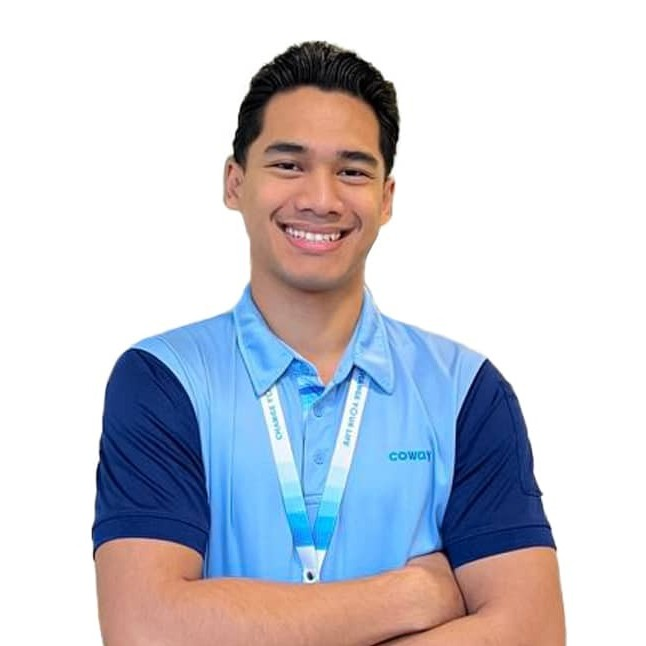
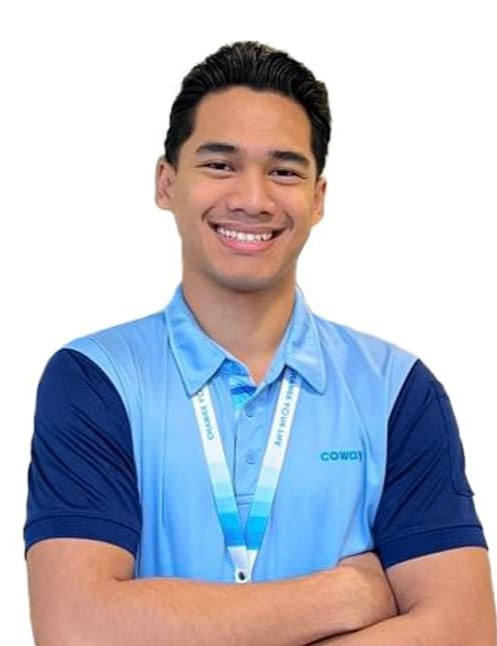
update

Changed region(s): [[0.0302, 0.0619, 1.0, 1.0]]

diff --git a/index.html b/index.html
@@ -140,17 +140,18 @@
                         <div class="profile-frame">
                             <img src="img/propic1.jpeg"">
                         </div>
-                        <div class="tech-info">
+                        <div class=" tech-info">
                             <span class="tech-label">Your Personal Home Technician</span>
                             <h3 class="tech-name">Name</h3>
                             <p class="tech-id">• Authorised Coway HT</p>
                         </div>
                     </div>
 
-                    <h1 class="hero-title">Experience <span>Freshness</span><br>Designed for your home.</h1>
+                    <h1 class="hero-title">Coway, made <span>simple.</span><br>Direct from your HT.</h1>
+
                     <p class="hero-desc">
-                        Forget the call centre runaround. I personally handle your **consultation, installation, and
-                        4-monthly servicing**. Professional care, direct from your trusted Home Technician.
+                        Expert Coway care for your family, managed by your personal Home Technician. I provide
+                        end-to-end support—from the first consultation to your regular 4-monthly maintenance.
                     </p>
 
                     <div class="hero-ctas">
